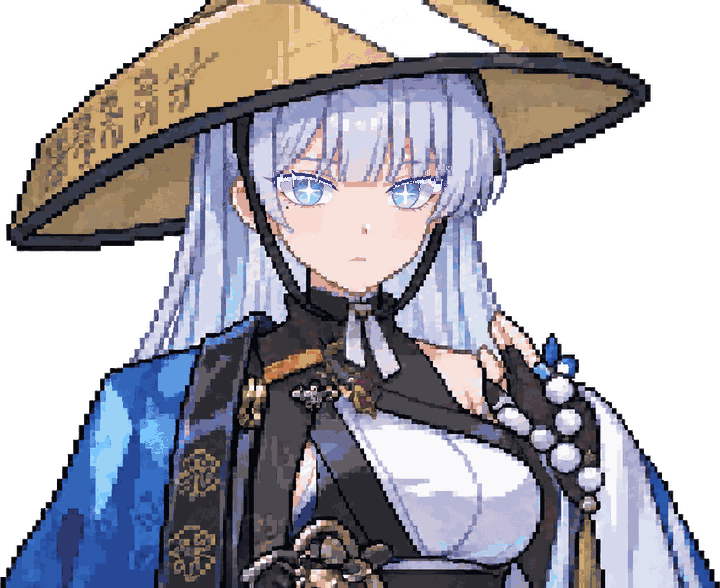
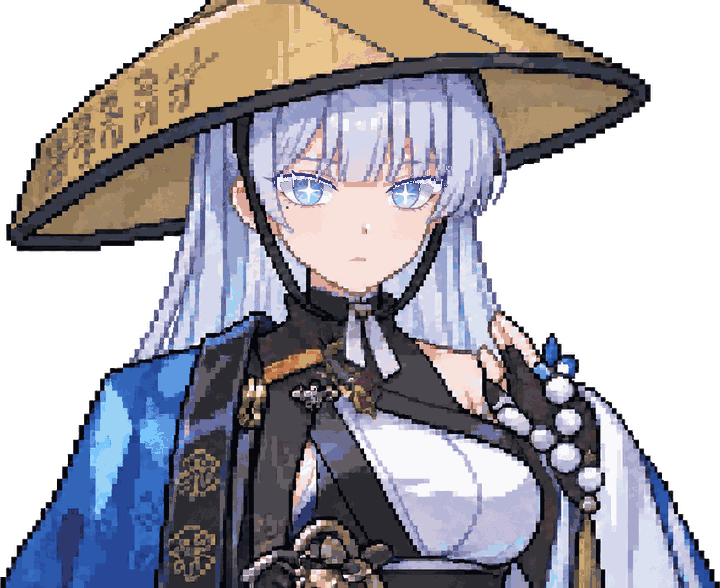
나유타 삿갓 꼭대기: 배경 지우기 때 함께 지워진 부분을 삿갓 색으로 채움(tools/fix_nayuta_hat.py)

Changed region(s): [[0.4278, 0.0, 0.7028, 0.1224]]

diff --git a/tools/fix_nayuta_hat.py b/tools/fix_nayuta_hat.py
@@ -1,0 +1,56 @@
+# 나유타 초상: 배경 지우기 때 함께 지워진 삿갓 윗면을 주변 삿갓 색으로 채운다
+import sys, glob
+from PIL import Image, ImageDraw
+import numpy as np
+S, SAVE = sys.argv[1], len(sys.argv) > 2
+def hull(pts):
+    pts=sorted(set(pts))
+    def cross(o,a,b): return (a[0]-o[0])*(b[1]-o[1])-(a[1]-o[1])*(b[0]-o[0])
+    lo=[];up=[]
+    for p in pts:
+        while len(lo)>=2 and cross(lo[-2],lo[-1],p)<=0: lo.pop()
+        lo.append(p)
+    for p in reversed(pts):
+        while len(up)>=2 and cross(up[-2],up[-1],p)<=0: up.pop()
+        up.append(p)
+    return lo[:-1]+up[:-1]
+tiles=[]
+for f in sorted(glob.glob('assets/portraits/nayuta_*.png')):
+    im=np.array(Image.open(f).convert('RGBA')).astype(int); H,W=im.shape[:2]
+    r,g,b,a=im[...,0],im[...,1],im[...,2],im[...,3]
+    lum=(r*3+g*6+b)/10
+    hat=(a>=128)&(r>140)&(r-b>50)&(g>100); hat[300:]=False
+    ys,xs=np.nonzero(hat)
+    mask=Image.new('L',(W,H),0); ImageDraw.Draw(mask).polygon(hull(list(zip(xs.tolist(),ys.tolist()))),fill=255)
+    inh=np.array(mask)>0
+    # 지워진 구멍에서 시작해, 삿갓 색이 아닌 밝은 잔여 픽셀(흰 배경 찌꺼기)까지 이어서 넓힌다. 검은 테두리에서 멈춘다
+    pink=(g<0.83*r)&(b>0.6*r)
+    cand=inh&(lum>120)&(~hat|pink)
+    # 그림 위쪽 끝에 닿은 투명 덩어리(꼭대기 구멍)만 씨앗으로 쓴다. 챙 아래 양 끝은 원래 배경이다
+    from collections import deque
+    tr=inh&(a<128); hole=np.zeros_like(tr)
+    q0=deque((0,x) for x in np.nonzero(tr[0])[0])
+    for y,x in q0: hole[y,x]=True
+    while q0:
+        y,x=q0.popleft()
+        for dy,dx in ((1,0),(-1,0),(0,1),(0,-1)):
+            ny,nx=y+dy,x+dx
+            if 0<=ny<H and 0<=nx<W and tr[ny,nx] and not hole[ny,nx]: hole[ny,nx]=True; q0.append((ny,nx))
+    q=deque((y,x,0) for y,x in zip(*np.nonzero(hole)))
+    while q:
+        y,x,dd=q.popleft()
+        if dd>=6: continue
+        for dy,dx in ((1,0),(-1,0),(0,1),(0,-1)):
+            ny,nx=y+dy,x+dx
+            if 0<=ny<H and 0<=nx<W and cand[ny,nx] and not hole[ny,nx]: hole[ny,nx]=True; q.append((ny,nx,dd+1))
+    # 밝은 삿갓 면의 대표색 하나로 평평하게 채운다(도트 그림의 면 처리)
+    src=hat&~pink&(lum>150)&(a>=250)
+    col=np.median(im[src][:,:3],axis=0)
+    o=im.copy(); o[hole,:3]=col; o[hole,3]=255
+    o=Image.fromarray(o.astype(np.uint8))
+    o.save(f if SAVE else S+'/fix_'+f.split('/')[-1])
+    bg=Image.new('RGBA',(W,H),(255,0,255,255)); tiles.append(Image.alpha_composite(bg,o).crop((150,0,720,220)))
+    print(f, int(hole.sum()))
+sheet=Image.new('RGBA',(570,880))
+for i,t in enumerate(tiles): sheet.paste(t,(0,220*i))
+sheet.save(S+'/hat_fix_sheet3.png')
